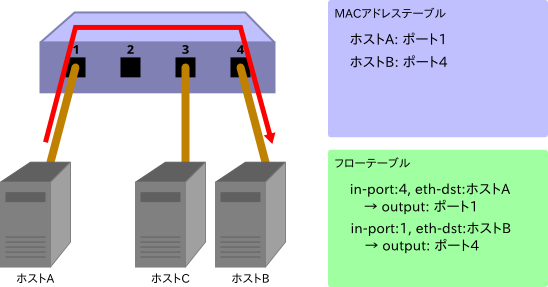
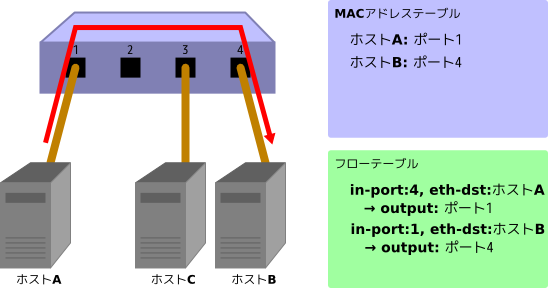
ja/html: a323c48 replace png to eps for latex

diff --git a/ja/html/switching_hub.html b/ja/html/switching_hub.html
@@ -87,13 +87,13 @@
 <blockquote>
 <div><p>フローテーブルが空の初期状態です。</p>
 <p>ポート1にホストA、ポート4にホストB、ポート3にホストCが接続されているものとします。</p>
-<a class="reference internal image-reference" href="_images/fig11.png"><img alt="_images/fig11.png" src="_images/fig11.png" style="width: 438.4px; height: 229.6px;" /></a>
+<a class="reference internal image-reference" href="_images/fig11.png"><img alt="_images/fig11.png" src="_images/fig11.png" style="width: 438.4px; height: 230.4px;" /></a>
 </div></blockquote>
 </li>
 <li><p class="first">ホストA→ホストB</p>
 <blockquote>
 <div><p>ホストAからホストBへのパケットが送信されると、Packet-Inメッセージが送られ、ホストAのMACアドレスがポート1に学習されます。ホストBのポートはまだ分かっていないため、パケットはフラッディングされ、パケットはホストBとホストCで受信されます。</p>
-<a class="reference internal image-reference" href="_images/fig21.png"><img alt="_images/fig21.png" src="_images/fig21.png" style="width: 438.4px; height: 229.6px;" /></a>
+<a class="reference internal image-reference" href="_images/fig21.png"><img alt="_images/fig21.png" src="_images/fig21.png" style="width: 438.4px; height: 230.4px;" /></a>
 <p>Packet-In:</p>
 <div class="highlight-python"><pre>in-port: 1
 eth-dst: ホストB
@@ -107,9 +107,7 @@ eth-src: ホストA</pre>
 <li><p class="first">ホストB→ホストA</p>
 <blockquote>
 <div><p>ホストBからホストAにパケットが返されると、フローテーブルにエントリを追加し、またパケットはポート1に転送されます。そのため、このパケットはホストCでは受信されません。</p>
-<blockquote>
-<div><a class="reference internal image-reference" href="_images/fig3.png"><img alt="_images/fig3.png" src="_images/fig3.png" style="width: 438.4px; height: 229.6px;" /></a>
-</div></blockquote>
+<a class="reference internal image-reference" href="_images/fig3.png"><img alt="_images/fig3.png" src="_images/fig3.png" style="width: 438.4px; height: 230.4px;" /></a>
 <p>Packet-In:</p>
 <div class="highlight-python"><pre>in-port: 4
 eth-dst: ホストA
@@ -123,9 +121,7 @@ eth-src: ホストB</pre>
 <li><p class="first">ホストA→ホストB</p>
 <blockquote>
 <div><p>再度、ホストAからホストBへのパケットが送信されると、フローテーブルにエントリを追加し、またパケットはポート4に転送されます。</p>
-<blockquote>
-<div><a class="reference internal image-reference" href="_images/fig4.png"><img alt="_images/fig4.png" src="_images/fig4.png" style="width: 438.4px; height: 229.6px;" /></a>
-</div></blockquote>
+<a class="reference internal image-reference" href="_images/fig4.png"><img alt="_images/fig4.png" src="_images/fig4.png" style="width: 438.4px; height: 230.4px;" /></a>
 <p>Packet-In:</p>
 <div class="highlight-python"><pre>in-port: 1
 eth-dst: ホストB

diff --git a/ja/html/link_aggregation.html b/ja/html/link_aggregation.html
@@ -56,21 +56,19 @@
 <div class="section" id="id2">
 <h2>リンク・アグリゲーション<a class="headerlink" href="#id2" title="このヘッドラインへのパーマリンク">¶</a></h2>
 <p>リンク・アグリゲーションは、IEEE802.1AX-2008で規定されている、複数の物理的な回線を束ねてひとつの論理的なリンクとして扱う技術です。リンク・アグリゲーション機能により、特定のネットワーク機器間の通信速度を向上させることができ、また同時に、冗長性を確保することで耐障害性を向上させることができます。</p>
-<blockquote>
-<div><table border="1" class="docutils">
+<table border="1" class="docutils">
 <colgroup>
 <col width="50%" />
 <col width="50%" />
 </colgroup>
 <tbody valign="top">
-<tr class="row-odd"><td><img alt="_images/fig1.png" class="first last" src="_images/fig1.png" />
+<tr class="row-odd"><td><a class="first last reference internal image-reference" href="_images/fig1.png"><img alt="_images/fig1.png" src="_images/fig1.png" style="width: 358.8px; height: 179.6px;" /></a>
 </td>
-<td><img alt="_images/fig2.png" class="first last" src="_images/fig2.png" />
+<td><a class="first last reference internal image-reference" href="_images/fig2.png"><img alt="_images/fig2.png" src="_images/fig2.png" style="width: 358.8px; height: 176.4px;" /></a>
 </td>
 </tr>
 </tbody>
 </table>
-</div></blockquote>
 <p>リンク・アグリゲーション機能を使用するには、それぞれのネットワーク機器において、どのインターフェースをどのグループとして束ねるのかという設定を事前に行っておく必要があります。</p>
 <p>リンク・アグリゲーション機能を開始する方法には、それぞれのネットワーク機器に対し直接指示を行うスタティックな方法と、LACP(Link Aggregation Control Protocol)というプロトコルを使用することによって動的に開始させるダイナミックな方法があります。</p>
 <p>ダイナミックな方法を採用した場合、各ネットワーク機器は対向インターフェース同士でLACPデータユニットを定期的に交換することにより、疎通不可能になっていないことをお互いに確認し続けます。この方法には、ネットワーク機器間にメディアコンバータなどの中継装置が存在した場合にも、中継装置の向こう側のリンクダウンを検知することができるというメリットがあります。本章では、LACPを用いたダイナミックなリンク・アグリゲーション機能を実装していきます。</p>
